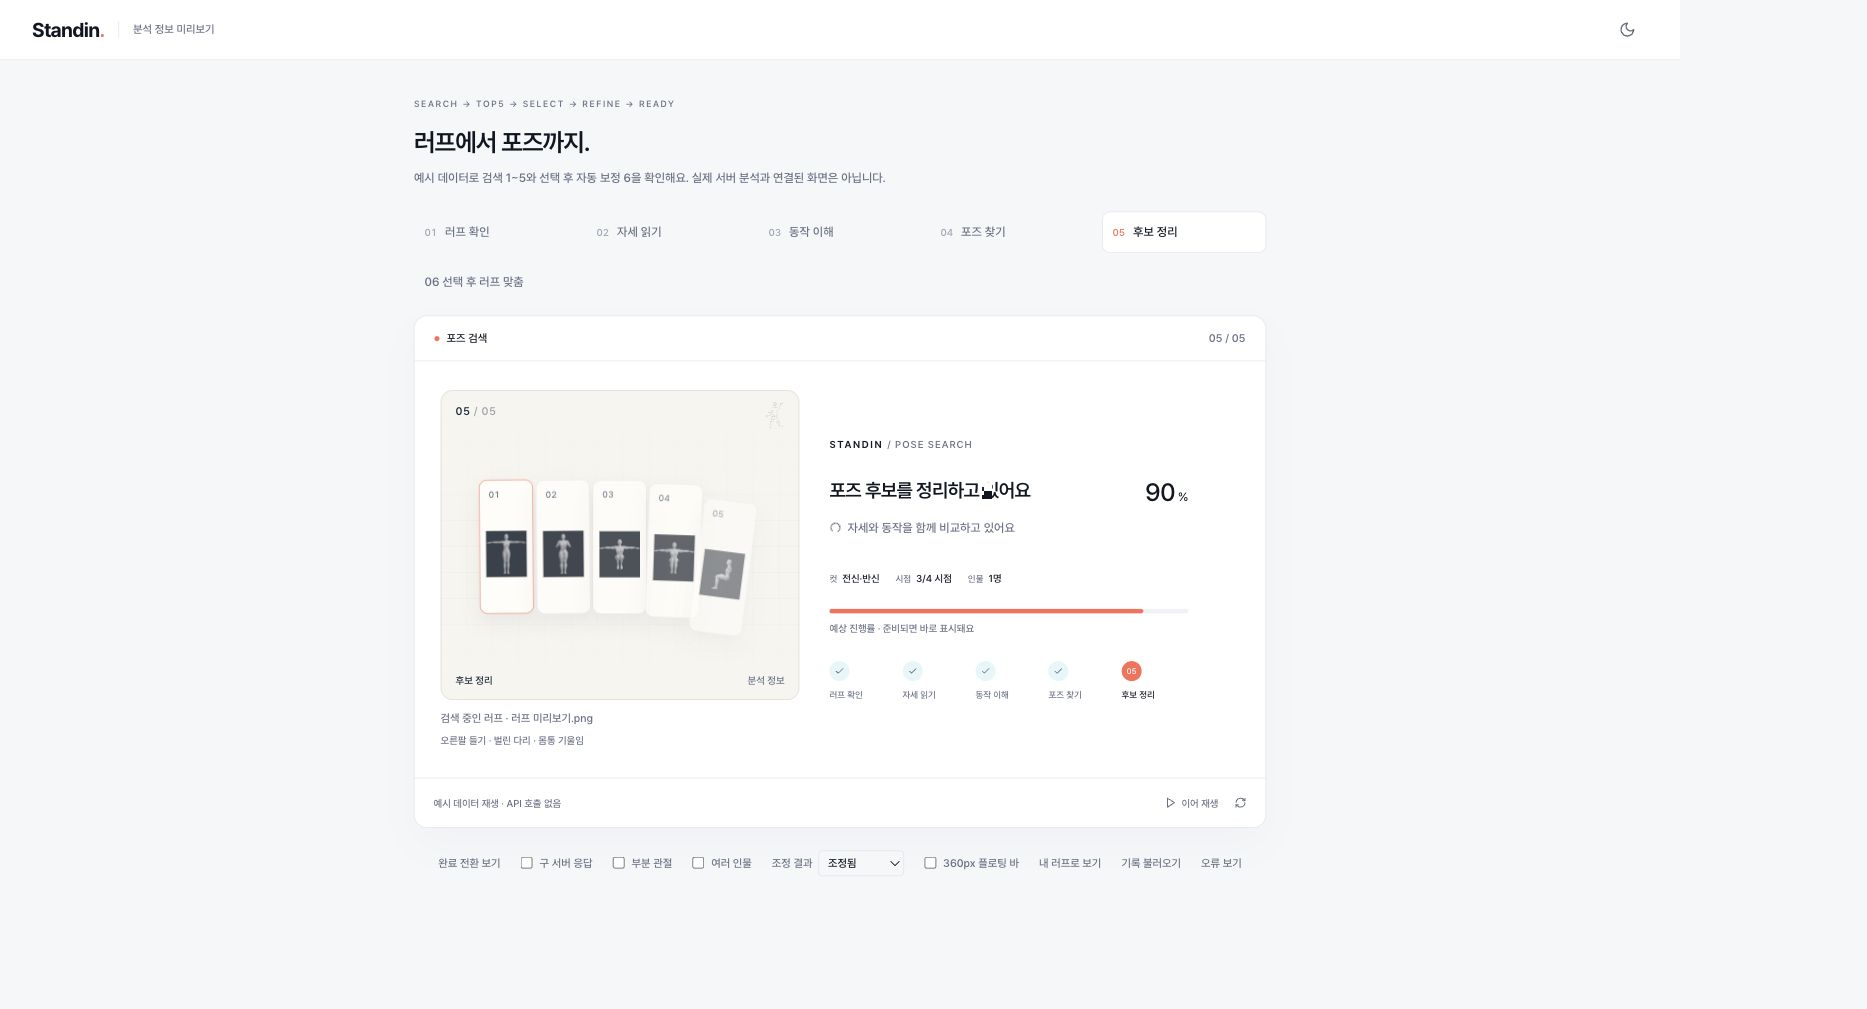
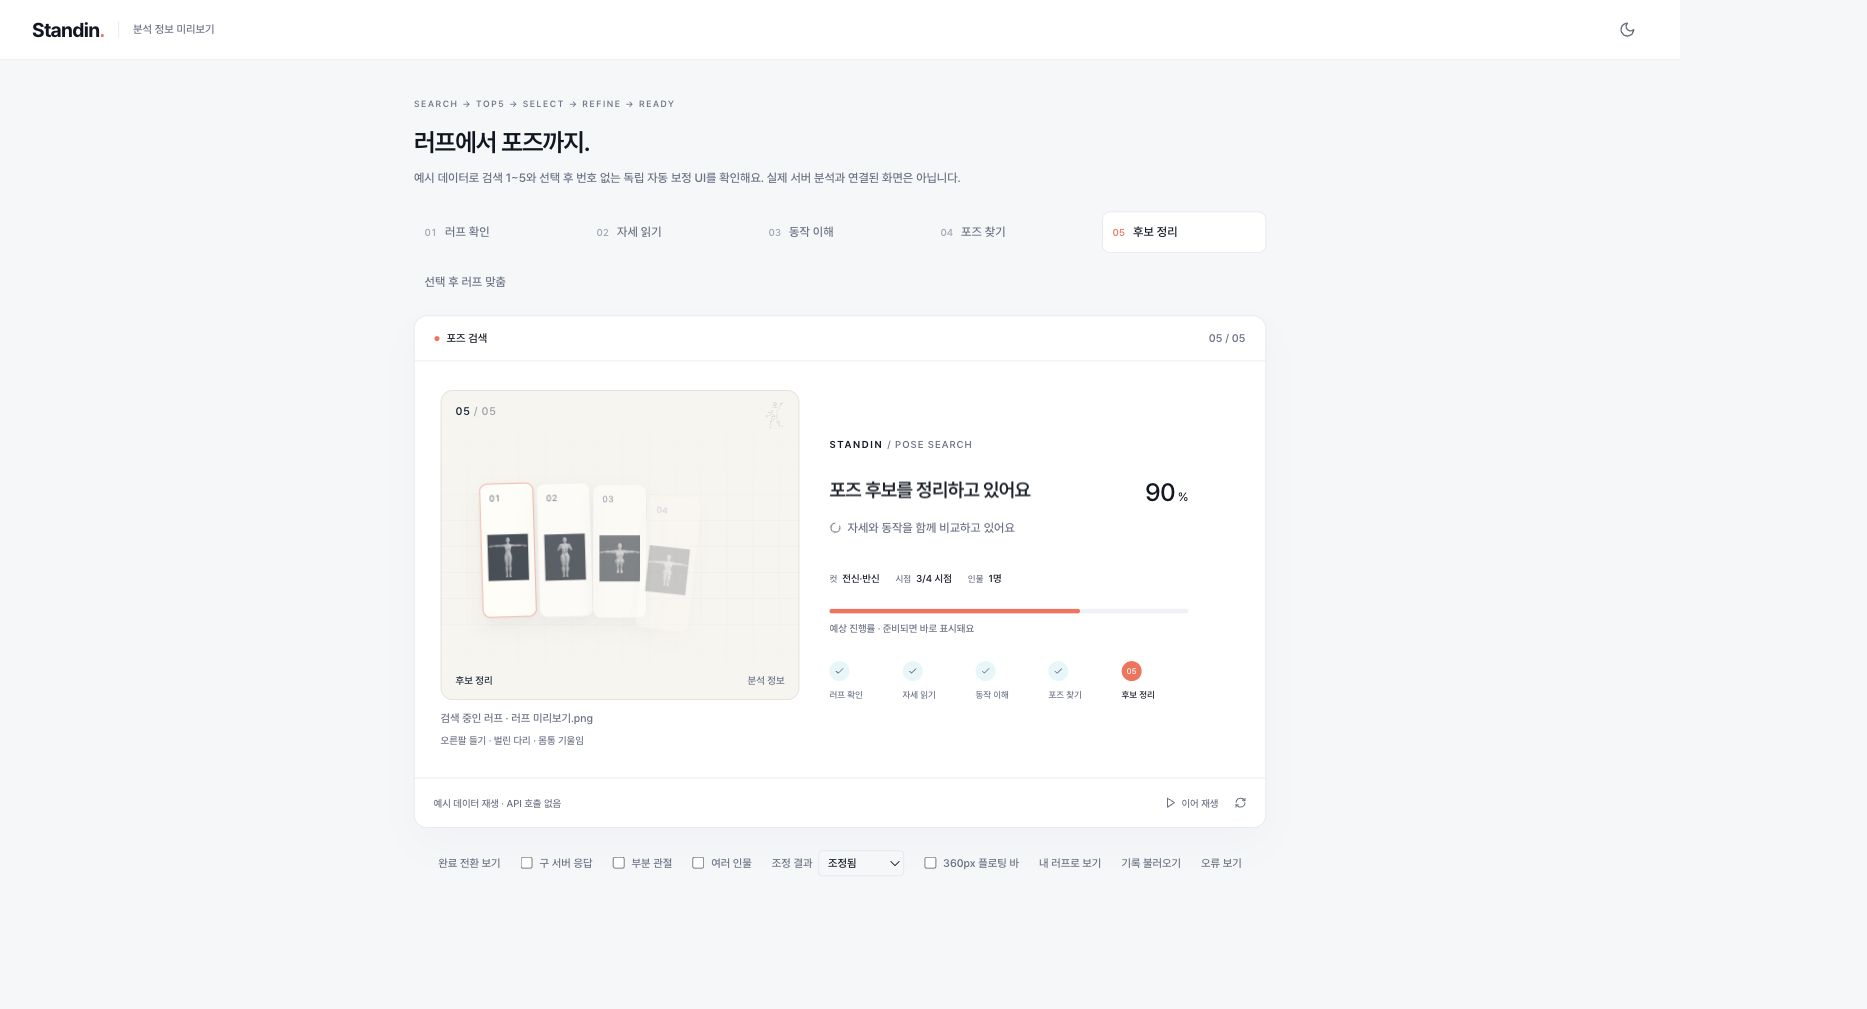
fix(loading): show refinement independently without step numbers

diff --git a/src/features/pose-viewer/components/PoseSearchPending.test.tsx b/src/features/pose-viewer/components/PoseSearchPending.test.tsx
@@ -342,47 +342,63 @@ describe("actual analysis loading", () => {
   });
 });
 
-it.each([false, true])("step six needs server execution evidence on compact=%s", (compact) => {
-  const refinement = {
-    jobId: "job",
-    personIndex: 1,
-    candidateId: "pick",
-    status: "requested" as const,
-    enteredAt: 0,
-  };
-  const view = render(
-    <PoseSearchPending mode="refine" compact={compact} refinement={refinement} />,
-  );
-  expect(screen.queryByRole("list", { name: "작업 단계" })).not.toBeInTheDocument();
-  view.rerender(
-    <PoseSearchPending
-      mode="refine"
-      compact={compact}
-      refinement={{ ...refinement, status: "refining" }}
-    />,
-  );
-  expect(screen.getAllByRole("listitem")).toHaveLength(1);
-  expect(view.container.querySelector(".pose-loading__scene-number")).toHaveTextContent("06 / 06");
-  expect(screen.getByTitle("러프 맞춤")).toHaveAttribute("data-complete", "false");
-  for (const status of [
-    "preparing",
-    "skipped",
-    "unchanged",
-    "reverted",
-    "failed",
-    "cancelled",
-    "improved",
-  ] as const) {
+it.each([false, true])(
+  "unnumbered standalone refinement needs server execution evidence on compact=%s",
+  (compact) => {
+    const refinement = {
+      jobId: "job",
+      personIndex: 1,
+      candidateId: "pick",
+      status: "requested" as const,
+      enteredAt: 0,
+    };
+    const view = render(
+      <PoseSearchPending mode="refine" compact={compact} refinement={refinement} />,
+    );
+    expect(screen.queryByRole("list", { name: "작업 단계" })).not.toBeInTheDocument();
     view.rerender(
       <PoseSearchPending
         mode="refine"
         compact={compact}
-        completed
-        refinement={{ ...refinement, status }}
+        refinement={{ ...refinement, status: "refining" }}
       />,
     );
     expect(screen.queryByRole("list", { name: "작업 단계" })).not.toBeInTheDocument();
-    expect(view.container.querySelector('[data-completed="true"]')).not.toBeInTheDocument();
-    expect(view.container.querySelector('[aria-valuenow="100"]')).not.toBeInTheDocument();
-  }
-});
+    expect(view.container.querySelector(".pose-loading__scene-number")).not.toBeInTheDocument();
+    expect(view.container.querySelector(".pose-loading__step-marker")).not.toBeInTheDocument();
+    expect(view.container.querySelector(".pose-loading")).toHaveAttribute(
+      "aria-label",
+      "포즈 조정 진행",
+    );
+    expect(screen.getByRole("heading")).toHaveTextContent("러프에 맞춰 조정하고 있어요");
+    expect(view.container.querySelector(".pose-loading__eyebrow")).toHaveTextContent("POSE REFINE");
+    for (const status of [
+      "preparing",
+      "skipped",
+      "unchanged",
+      "reverted",
+      "failed",
+      "cancelled",
+      "improved",
+    ] as const) {
+      view.rerender(
+        <PoseSearchPending
+          mode="refine"
+          compact={compact}
+          completed
+          refinement={{ ...refinement, status }}
+        />,
+      );
+      expect(screen.queryByRole("list", { name: "작업 단계" })).not.toBeInTheDocument();
+      expect(view.container.querySelector(".pose-loading")).not.toHaveAttribute(
+        "data-stage",
+        "refining",
+      );
+      expect(view.container.querySelector(".pose-loading__eyebrow")).not.toHaveTextContent(
+        "POSE REFINE",
+      );
+      expect(view.container.querySelector('[data-completed="true"]')).not.toBeInTheDocument();
+      expect(view.container.querySelector('[aria-valuenow="100"]')).not.toBeInTheDocument();
+    }
+  },
+);

diff --git a/src/features/pose-viewer/components/PoseSearchPending.tsx b/src/features/pose-viewer/components/PoseSearchPending.tsx
@@ -82,7 +82,7 @@ export function PoseSearchPending({
     : (snapshot?.stage ?? progress?.phase ?? "running");
   const finishingSearch = phase === "ranking" || phase === "preparing";
   const stage = refining ? "refining" : completed ? "ranking" : loadingVisualStage(phase);
-  const stages = selected ? (refining ? ["refining" as const] : []) : POSE_LOADING_STAGES;
+  const stages = selected ? [] : POSE_LOADING_STAGES;
   const copy =
     COPY[
       phase === "preparing" ? "ranking" : phase === "refining" && !selected ? "searching" : phase
@@ -182,7 +182,7 @@ export function PoseSearchPending({
       data-completed={completed}
       data-focused-person={selected ? refinement?.personIndex : person?.personIndex}
       data-focus-id={provisional?.id}
-      aria-label={selected ? "포즈 조정 진행" : "포즈 검색 진행"}
+      aria-label={refining ? "포즈 조정 진행" : selected ? "결과 준비 진행" : "포즈 검색 진행"}
       aria-busy={!completed && !settled}
     >
       {!restoring && (
@@ -194,8 +194,8 @@ export function PoseSearchPending({
           >
             {stages.length > 0 && (
               <div className="pose-loading__scene-number" aria-hidden="true">
-                {refining ? "06" : String(current + 1).padStart(2, "0")}
-                <span> / {refining ? "06" : "05"}</span>
+                {String(current + 1).padStart(2, "0")}
+                <span> / 05</span>
               </div>
             )}
             {person && snapshot && snapshot.people.length > 1 && (
@@ -289,7 +289,10 @@ export function PoseSearchPending({
       )}
       <div className="pose-loading__info">
         <div className="pose-loading__eyebrow">
-          STANDIN <span>/ POSE SEARCH</span>
+          STANDIN{" "}
+          <span>
+            {refining ? "/ POSE REFINE" : selected ? "/ RESULT PREPARATION" : "/ POSE SEARCH"}
+          </span>
         </div>
         <div className="pose-loading__heading">
           <h2 key={title}>{title}</h2>
@@ -390,8 +393,6 @@ export function PoseSearchPending({
                       <Minus size={10} />
                     ) : complete ? (
                       <Check size={10} />
-                    ) : refining ? (
-                      "06"
                     ) : (
                       String(i + 1).padStart(2, "0")
                     )}

diff --git a/src/dev/pose-loading-preview.tsx b/src/dev/pose-loading-preview.tsx
@@ -112,8 +112,8 @@ export function Preview() {
           <span>SEARCH → TOP5 → SELECT → REFINE → READY</span>
           <h1>러프에서 포즈까지.</h1>
           <p>
-            예시 데이터로 검색 1~5와 선택 후 자동 보정 6을 확인해요. 실제 서버 분석과 연결된 화면은
-            아닙니다.
+            예시 데이터로 검색 1~5와 선택 후 번호 없는 독립 자동 보정 UI를 확인해요. 실제 서버
+            분석과 연결된 화면은 아닙니다.
           </p>
         </div>
         <div className="loading-preview__timeline" aria-label="로딩 구간 미리보기">
@@ -136,7 +136,7 @@ export function Preview() {
               setPlaying(false);
             }}
           >
-            06 선택 후 러프 맞춤
+            선택 후 러프 맞춤
           </button>
         </div>
         <div

diff --git a/docs/POSE_LOADING_IMPLEMENTATION.md b/docs/POSE_LOADING_IMPLEMENTATION.md
@@ -1,8 +1,8 @@
 # 실제 분석 로딩 UI 구현
 
 현재 제품 흐름(2026-11-19)은 검색 **러프 확인 → 자세 읽기 → 동작 이해 → 포즈 찾기 → 후보 정리**의 1~5단계다.
-Top5에서 사용자가 선택한 뒤, 실제 BFF upstream 실행 이벤트를 받은 동안에만 **6번 러프 맞춤**을 표시한다.
-선택·미리보기·파일 준비·시간 경과는 6번의 근거가 아니다. 아래는 최초 연결 당시의 이력이며,
+Top5에서 사용자가 선택한 뒤, 실제 BFF upstream 실행 이벤트를 받은 동안에만 **번호 없는 독립 러프 맞춤 UI**을 표시한다.
+선택·미리보기·파일 준비·시간 경과는 독립 리파인 UI의 근거가 아니다. 아래는 최초 연결 당시의 이력이며,
 현재 계약과 검증은 [검색/선택 보정 분리 기록](qa/selected-progress-20261119/README.md)을 따른다.
 
 ## 분리된 작업
